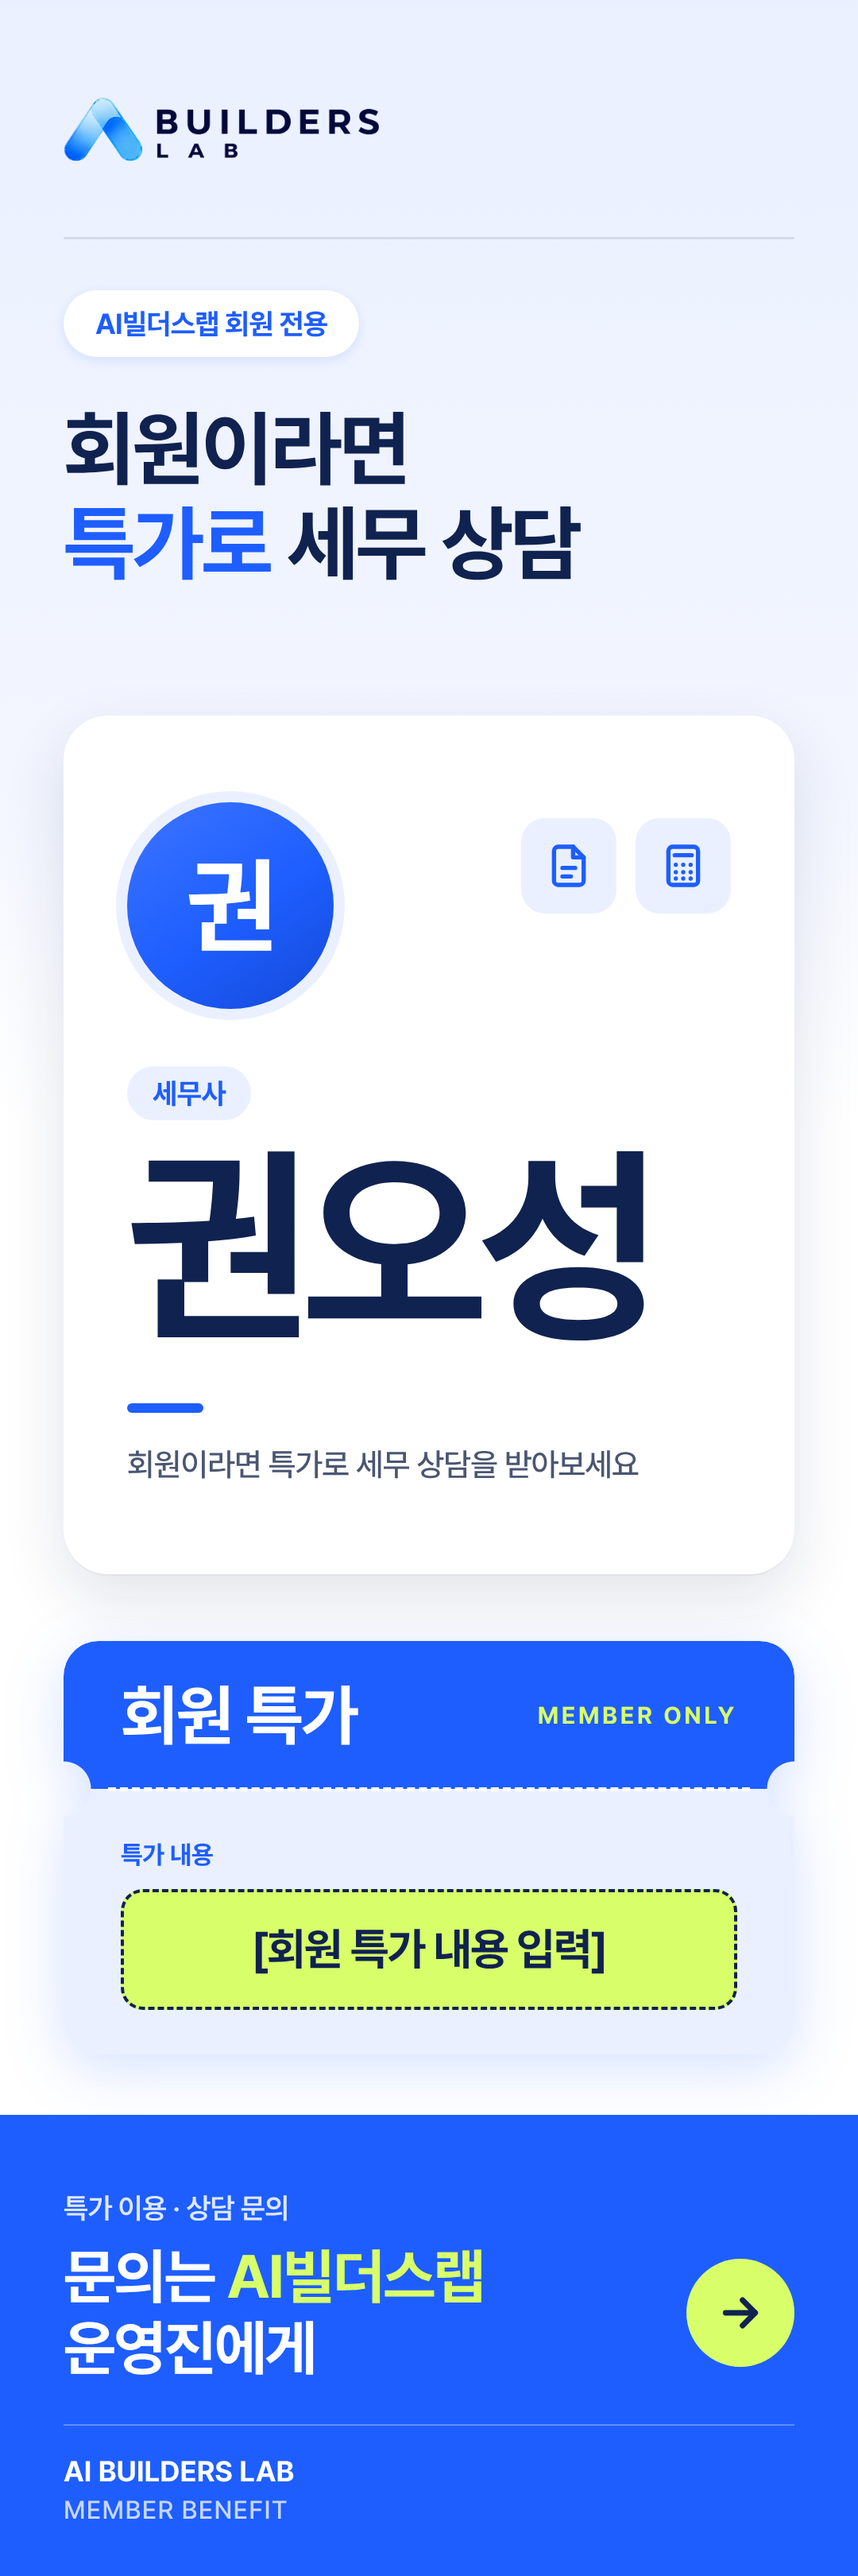
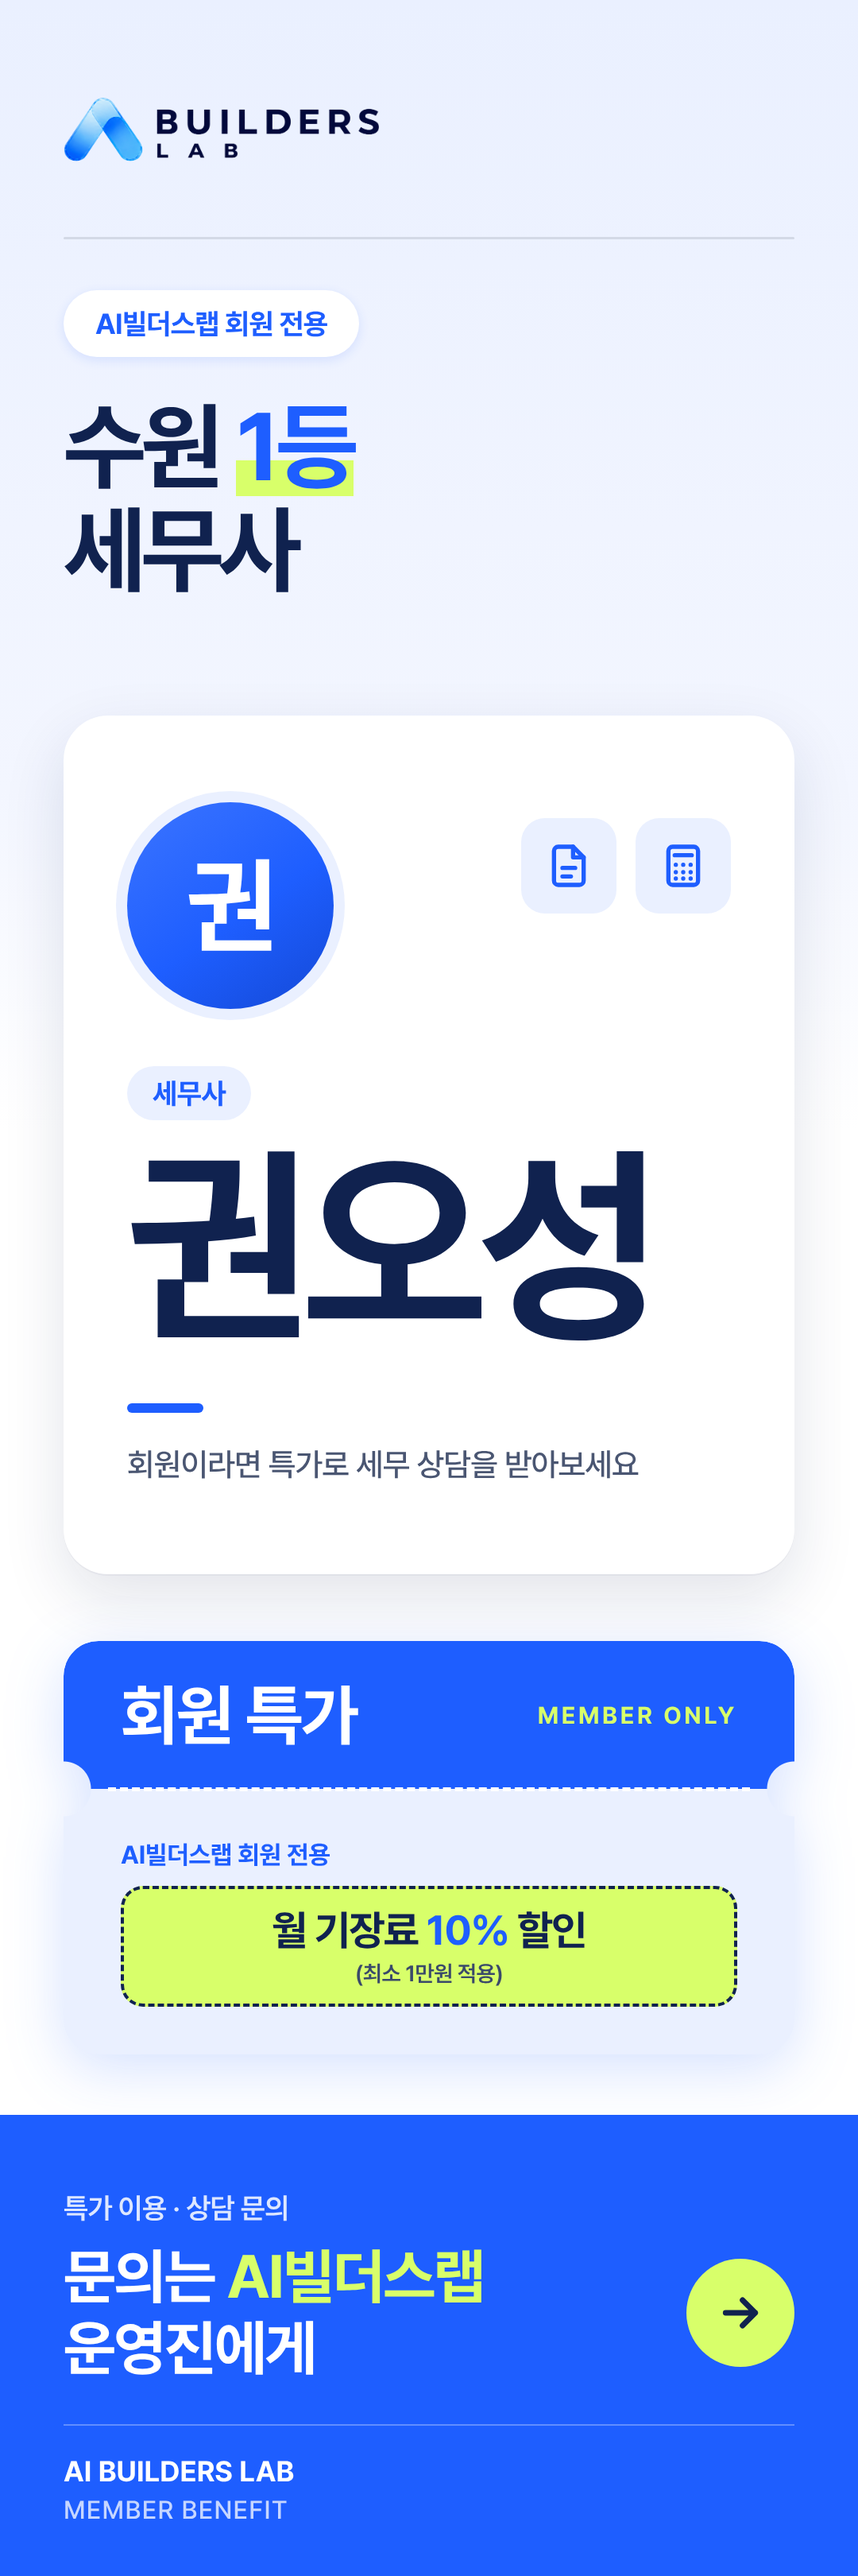
시안 B를 최종으로 확정하고 특가·수원 1등 세무사 반영
쿠폰 칸에 월 기장료 10% 할인(최소 1만원 적용)을 넣고, 상단에 수원 1등 세무사를 강조한다.

Changed region(s): [[0.0611, 0.1559, 0.4889, 0.2494], [0.1222, 0.717, 0.7028, 0.7793], [0.5194, 0.187, 0.6722, 0.2494]]

diff --git a/index.html b/index.html
@@ -1,6 +1,6 @@
 <!doctype html><html lang="ko"><head><meta charset="utf-8"><meta name="viewport" content="width=device-width,initial-scale=1">
 <title>세무사 권오성 · AI빌더스랩 회원 특가 배너 시안</title>
-<meta name="description" content="AI빌더스랩 회원 전용 세무사 배너 시안 미리보기와 다운로드. 시안 C 최종, 월 기장료 10% 할인(최소 1만원 적용), 일렉트릭 레드·울트라 바이올렛·네온라임 컬러 3종">
+<meta name="description" content="AI빌더스랩 회원 전용 세무사 배너 시안 미리보기와 다운로드. 시안 B 최종, 수원 1등 세무사, 월 기장료 10% 할인(최소 1만원 적용)">
 <link rel="stylesheet" href="https://cdn.jsdelivr.net/gh/orioncactus/pretendard@v1.3.9/dist/web/static/pretendard.min.css">
 <style>
 *{box-sizing:border-box}body{margin:0;font-family:Pretendard,-apple-system,sans-serif;background:#F4F6FB;color:#10224F;word-break:keep-all}
@@ -37,11 +37,11 @@ footer{background:#1E5EFF;color:#fff;padding:28px 0;margin-top:40px}footer b{dis
 @media(max-width:720px){.prev{grid-template-columns:1fr}.vert{max-width:280px}}
 </style></head><body>
 <header><div class="wrap"><div class="top"><img src="logo.png" alt="AI BUILDERS LAB"><span class="pill">AI빌더스랩 회원 전용</span></div>
-<div class="hero"><span class="pill">시안 C 최종 · 컬러 3종</span><h1>세무사 권오성<br><b>회원 특가</b> 배너</h1><div class="bar"></div>
-<p>시안 C를 최종으로 확정했어요. 특가는 AI빌더스랩 회원 전용 월 기장료 10% 할인(최소 1만원 적용)입니다. 원안 블루와 일렉트릭 레드·울트라 바이올렛·네온라임 컬러 3종을 아래에서 세로(1080×3240)·가로(1200×400) PNG로 내려받을 수 있어요.</p>
-<nav class="jump"><a href="#vA">시안 A</a><a href="#vB">시안 B</a><a class="sel" href="#vC">시안 C 최종</a><a class="sel" href="#colors">컬러 3종</a><a href="#comments">댓글</a></nav></div></div></header>
+<div class="hero"><span class="pill">시안 B 최종</span><h1>세무사 권오성<br><b>회원 특가</b> 배너</h1><div class="bar"></div>
+<p>시안 B를 최종으로 확정했어요. “수원 1등 세무사”를 강조했고, 특가는 AI빌더스랩 회원 전용 월 기장료 10% 할인(최소 1만원 적용)입니다. 아래에서 세로(1080×3240)·가로(1200×400) PNG를 내려받을 수 있어요.</p>
+<nav class="jump"><a href="#vA">시안 A</a><a class="sel" href="#vB">시안 B 최종</a><a href="#vC">시안 C</a><a href="#colors">컬러 3종</a><a href="#comments">댓글</a></nav></div></div></header>
 <main class="wrap">
-<div class="note"><b>시안 C 특가: AI빌더스랩 회원 전용 월 기장료 10% 할인(최소 1만원 적용).</b><p>원안 블루와 컬러 3종에 반영했어요. 시안 A·B의 특가 자리는 아직 비어 있습니다. 문의는 AI빌더스랩 운영진에게.</p></div>
+<div class="note"><b>시안 B 최종: 수원 1등 세무사 · 월 기장료 10% 할인(최소 1만원 적용).</b><p>같은 특가는 시안 C와 컬러 3종에도 들어 있어요. 시안 A의 특가 자리는 아직 비어 있습니다. 문의는 AI빌더스랩 운영진에게.</p></div>
 <section class="card" id="vA">
   <div class="head"><span class="tag">시안 A</span><h2>레퍼런스형</h2><p>레퍼런스 그대로: 흰 상단 대형 3줄 타이포(회원 특가/세무사/권오성) + 하단 블루 블록에 연두 특가 슬롯</p></div>
   <div class="prev">
@@ -52,7 +52,7 @@ footer{background:#1E5EFF;color:#fff;padding:28px 0;margin-top:40px}footer b{dis
   </div>
 </section>
 <section class="card" id="vB">
-  <div class="head"><span class="tag">시안 B</span><h2>프로필·쿠폰형</h2><p>인물 중심: 큰 프로필 카드(권 이니셜·초대형 권오성) + 점선 절취선 쿠폰 티켓에 특가 슬롯</p></div>
+  <div class="head"><span class="tag final">시안 B · 최종</span><h2>프로필·쿠폰형</h2><p>인물 중심: 상단에 “수원 1등 세무사” 강조, 큰 프로필 카드(권 이니셜·초대형 권오성) + 점선 절취선 쿠폰 티켓에 월 기장료 10% 할인</p></div>
   <div class="prev">
     <figure class="vert"><img src="png/B-vertical.png" alt="시안 B 세로 1080×3240" loading="lazy"><figcaption>세로 1080×3240</figcaption>
       <a class="btn" href="png/B-vertical.png" download="taxbanner-B-vertical.png">세로 PNG 내려받기</a></figure>
@@ -61,7 +61,7 @@ footer{background:#1E5EFF;color:#fff;padding:28px 0;margin-top:40px}footer b{dis
   </div>
 </section>
 <section class="card" id="vC">
-  <div class="head"><span class="tag final">시안 C · 최종</span><h2>블루 혜택 강조형</h2><p>혜택 중심: 컬러 영역이 2/3를 차지, 초대형 &quot;회원 특가&quot; + 이용 흐름 3단계 + CTA 버튼. 아래 컬러 3종은 이 레이아웃의 색상 변형입니다.</p></div>
+  <div class="head"><span class="tag">시안 C</span><h2>블루 혜택 강조형</h2><p>혜택 중심: 컬러 영역이 2/3를 차지, 초대형 &quot;회원 특가&quot; + 이용 흐름 3단계 + CTA 버튼. 아래 컬러 3종은 이 레이아웃의 색상 변형입니다.</p></div>
   <div class="prev">
     <figure class="vert"><img src="png/C-vertical.png" alt="시안 C 원안(블루) 세로 1080×3240" loading="lazy"><figcaption>원안 블루 세로 1080×3240</figcaption>
       <a class="btn" href="png/C-vertical.png" download="taxbanner-C-vertical.png">세로 PNG 내려받기</a></figure>

diff --git a/src/banner-B-horizontal.html b/src/banner-B-horizontal.html
@@ -27,7 +27,7 @@
   .logo { display: block; height: 50px; }
   .badge { display: inline-flex; align-items: center; height: 40px; padding: 0 20px; border-radius: 20px;
            background: #EAF0FF; color: #1E5EFF; font-size: 18px; font-weight: 700; letter-spacing: -0.02em; }
-  .profile { display: flex; align-items: center; gap: 36px; margin-top: 32px; }
+  .profile { display: flex; align-items: center; gap: 36px; margin-top: 22px; }
   .avatar { width: 136px; height: 136px; border-radius: 50%; flex: none;
             background: linear-gradient(145deg, #3B74FF 0%, #1E5EFF 55%, #1449D6 100%);
             display: flex; align-items: center; justify-content: center;
@@ -35,20 +35,25 @@
             box-shadow: 0 0 0 8px #EAF0FF; margin-left: 8px; }
   .role { display: inline-flex; align-items: center; height: 36px; padding: 0 16px; border-radius: 18px;
           background: #EAF0FF; color: #1E5EFF; font-size: 20px; font-weight: 700; }
-  .name { margin-top: 6px; font-size: 104px; line-height: 1; font-weight: 900; letter-spacing: -0.04em; color: #10224F; }
-  .sub { margin-top: 26px; display: flex; align-items: center; gap: 14px;
-         font-size: 20px; font-weight: 500; color: #4A5672; letter-spacing: -0.02em; }
-  .sub i { display: block; width: 32px; height: 6px; border-radius: 3px; background: #1E5EFF; }
+  .name { margin-top: 4px; font-size: 96px; line-height: 1; font-weight: 900; letter-spacing: -0.04em; color: #10224F; }
+  .headline { margin-top: 16px; display: flex; align-items: center; gap: 14px;
+              font-size: 48px; line-height: 1.1; font-weight: 800; color: #10224F; letter-spacing: -0.04em; }
+  .headline i { display: block; width: 32px; height: 8px; border-radius: 4px; background: #1E5EFF; flex: none; }
+  .headline em { font-style: normal; color: #1E5EFF;
+                 background: linear-gradient(transparent 62%, #D8FF6A 62%, #D8FF6A 94%, transparent 94%); }
 
   /* 오른쪽: 특가 */
   .right { flex: 1; height: 100%; background: #1E5EFF; color: #fff; padding: 32px 40px 0 44px; display: flex; flex-direction: column; }
   .t-row { display: flex; align-items: baseline; justify-content: space-between; }
   .t-title { font-size: 44px; font-weight: 800; letter-spacing: -0.03em; }
   .t-tag { font-size: 18px; font-weight: 700; letter-spacing: 0.1em; color: #D8FF6A; }
-  .offer-box { margin-top: 16px; min-height: 92px; border-radius: 18px; background: #D8FF6A;
-               border: 3px dashed #10224F; padding: 12px 20px;
-               display: flex; align-items: center; justify-content: center; text-align: center; }
-  .offer-box span { font-size: 28px; line-height: 1.2; font-weight: 800; color: #10224F; letter-spacing: -0.03em; }
+  .offer-box { margin-top: 14px; min-height: 0; border-radius: 18px; background: #D8FF6A;
+               border: 3px dashed #10224F; padding: 10px 16px;
+               display: flex; flex-direction: column; align-items: center; justify-content: center; text-align: center; gap: 2px; }
+  .offer-kicker { font-size: 14px; font-weight: 700; color: #1E5EFF; letter-spacing: -0.02em; }
+  .offer-main { font-size: 26px; line-height: 1.15; font-weight: 800; color: #10224F; letter-spacing: -0.03em; }
+  .offer-main em { font-style: normal; color: #1E5EFF; }
+  .offer-note { font-size: 13px; font-weight: 600; color: #3A4A6A; letter-spacing: -0.02em; }
   .cta { margin-top: auto; margin-bottom: 30px; display: flex; align-items: center; justify-content: space-between; gap: 12px; }
   .cta-text { font-size: 24px; line-height: 1.35; font-weight: 700; letter-spacing: -0.02em; }
   .cta-text em { font-style: normal; color: #D8FF6A; }
@@ -74,14 +79,18 @@
             <div class="name">권오성</div>
           </div>
         </div>
-        <div class="sub"><i></i>회원이라면 특가로 세무 상담을 받아보세요</div>
+        <div class="headline"><i></i><span>수원 <em>1등</em> 세무사</span></div>
       </div>
       <div class="right">
         <div class="t-row">
           <div class="t-title">회원 특가</div>
           <div class="t-tag">MEMBER ONLY</div>
         </div>
-        <div class="offer-box"><span data-slot="offer">[회원 특가 내용 입력]</span></div>
+        <div class="offer-box">
+          <div class="offer-kicker" data-slot="offer-label">AI빌더스랩 회원 전용</div>
+          <div class="offer-main" data-slot="offer-main">월 기장료 <em>10%</em> 할인</div>
+          <div class="offer-note" data-slot="offer-note">(최소 1만원 적용)</div>
+        </div>
         <div class="cta">
           <div class="cta-text">문의는 <em>AI빌더스랩</em> 운영진에게<small>AI BUILDERS LAB · MEMBER BENEFIT</small></div>
         </div>

diff --git a/src/banner-B-vertical.html b/src/banner-B-vertical.html
@@ -21,8 +21,9 @@
   .badge { display: inline-flex; align-items: center; height: 84px; padding: 0 40px;
            border-radius: 42px; background: #fff; color: #1E5EFF; font-size: 36px; font-weight: 700;
            letter-spacing: -0.02em; box-shadow: 0 4px 14px rgba(30, 94, 255, 0.12); }
-  .intro { margin-top: 56px; font-size: 104px; line-height: 1.14; font-weight: 800; letter-spacing: -0.03em; color: #10224F; }
-  .intro em { font-style: normal; color: #1E5EFF; }
+  .intro { margin-top: 48px; font-size: 120px; line-height: 1.08; font-weight: 900; letter-spacing: -0.05em; color: #10224F; }
+  .intro em { font-style: normal; color: #1E5EFF;
+              background: linear-gradient(transparent 62%, #D8FF6A 62%, #D8FF6A 94%, transparent 94%); }
 
   /* 프로필 카드 */
   .card { position: absolute; left: 80px; top: 900px; width: 920px; height: 1080px;
@@ -61,10 +62,13 @@
   .t-bot::before { content: ""; position: absolute; left: 56px; right: 56px; top: -2px; height: 0;
                    border-top: 5px dashed #fff; }
   .t-label { font-size: 32px; font-weight: 700; color: #1E5EFF; letter-spacing: -0.01em; }
-  .offer-box { margin-top: 24px; min-height: 152px; border-radius: 28px; background: #D8FF6A;
-               border: 4px dashed #10224F; padding: 22px 40px;
+  .offer-box { margin-top: 20px; min-height: 152px; border-radius: 28px; background: #D8FF6A;
+               border: 4px dashed #10224F; padding: 18px 40px;
                display: flex; align-items: center; justify-content: center; text-align: center; }
-  .offer-box span { font-size: 56px; line-height: 1.2; font-weight: 800; color: #10224F; letter-spacing: -0.03em; }
+  .offer-stack { display: flex; flex-direction: column; align-items: center; gap: 6px; }
+  .offer-main { font-size: 52px; line-height: 1.2; font-weight: 800; color: #10224F; letter-spacing: -0.03em; }
+  .offer-main em { font-style: normal; color: #1E5EFF; }
+  .offer-note { font-size: 28px; font-weight: 600; color: #3A4A6A; letter-spacing: -0.02em; }
 
   /* 하단 블루 블록 */
   .bottom { position: absolute; left: 0; bottom: 0; width: 1080px; height: 580px; background: #1E5EFF; color: #fff;
@@ -89,7 +93,7 @@
     <img class="logo" src="logo.png" alt="AI BUILDERS LAB">
     <div class="rule"></div>
     <div class="badge">AI빌더스랩 회원 전용</div>
-    <div class="intro">회원이라면<br><em>특가로</em> 세무 상담</div>
+    <h1 class="intro">수원 <em>1등</em><br>세무사</h1>
   </div>
 
   <div class="card">
@@ -121,8 +125,13 @@
         <div class="t-tag">MEMBER ONLY</div>
       </div>
       <div class="t-bot">
-        <div class="t-label">특가 내용</div>
-        <div class="offer-box"><span data-slot="offer">[회원 특가 내용 입력]</span></div>
+        <div class="t-label" data-slot="offer-label">AI빌더스랩 회원 전용</div>
+        <div class="offer-box">
+          <div class="offer-stack">
+            <div class="offer-main" data-slot="offer-main">월 기장료 <em>10%</em> 할인</div>
+            <div class="offer-note" data-slot="offer-note">(최소 1만원 적용)</div>
+          </div>
+        </div>
       </div>
     </div>
   </div>

diff --git a/src/content.js b/src/content.js
@@ -1,5 +1,5 @@
-// ===== 여기 한 곳만 바꾸면 시안 C(원안·컬러 3종) 특가 문구가 반영됩니다 =====
-// 시안 A·B는 별도의 [data-slot="offer"] 플레이스홀더를 유지합니다.
+// ===== 여기 한 곳만 바꾸면 시안 B·C(원안·컬러 3종) 특가 문구가 반영됩니다 =====
+// 시안 A는 별도의 [data-slot="offer"] 플레이스홀더를 유지합니다.
 window.BANNER_CONTENT = {
   label: "AI빌더스랩 회원 전용",
   main: "월 기장료 10% 할인",
